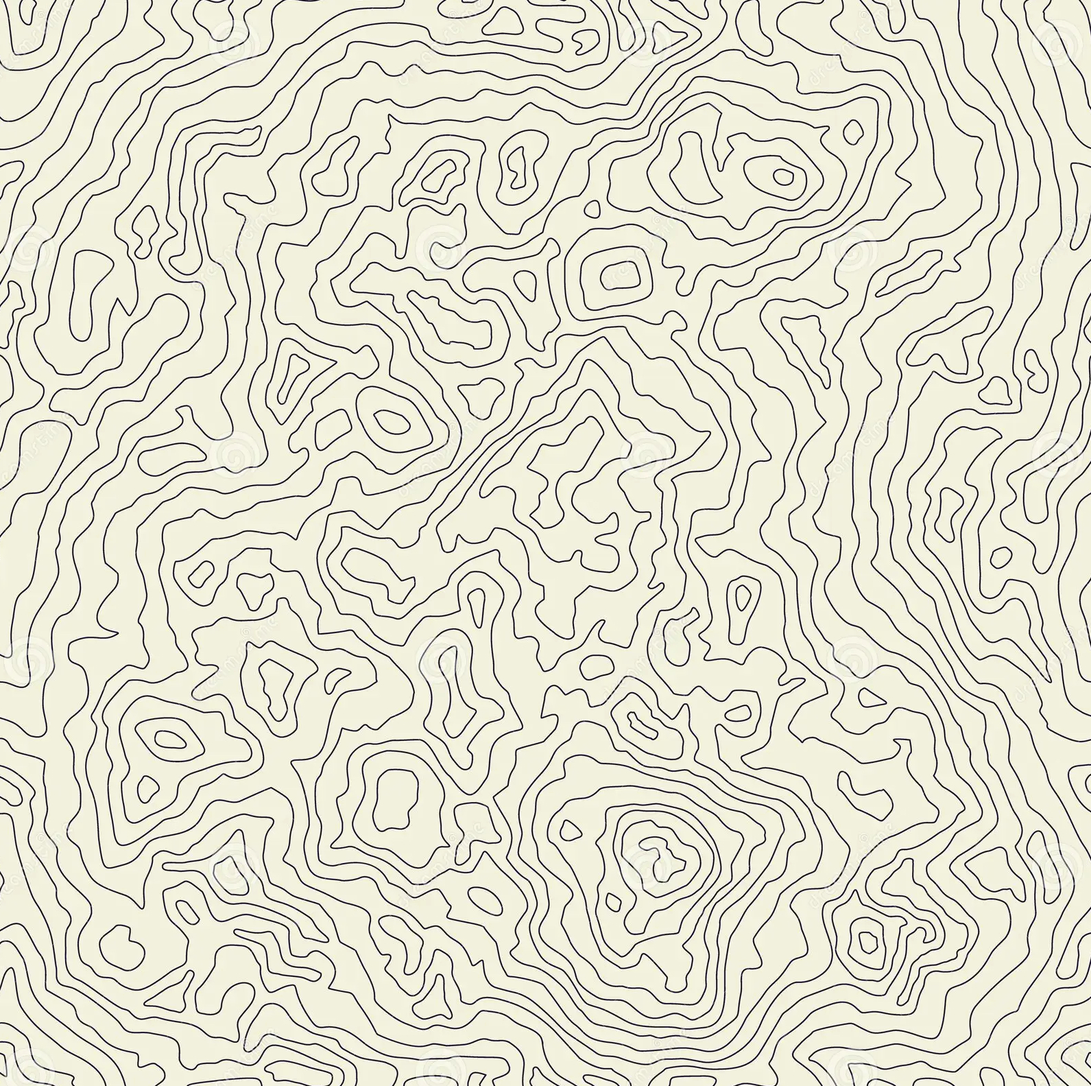
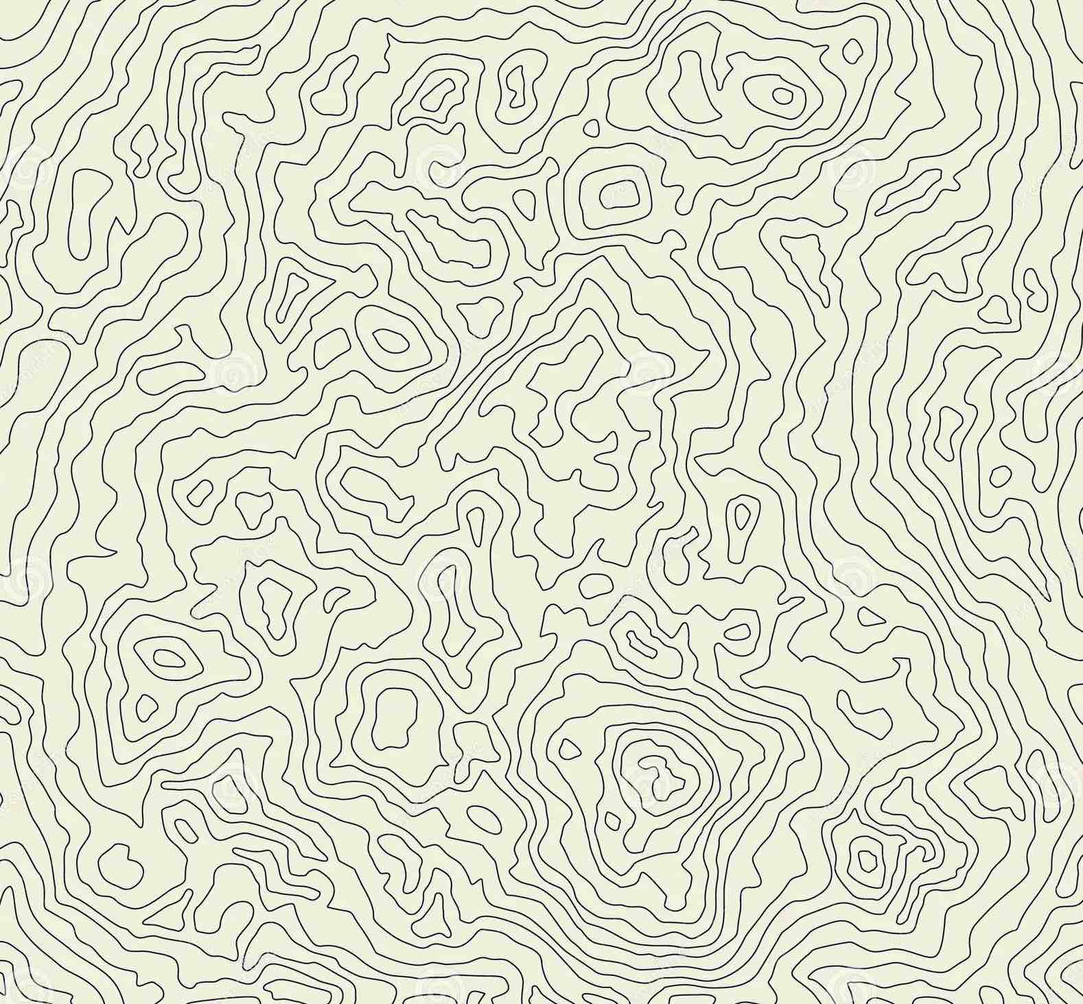
Reduce image quality, remove body padding

Changed region(s): [[0.0, 0.0, 1.0, 1.0]]

diff --git a/app/globals.css b/app/globals.css
@@ -12,11 +12,12 @@ html > * {
 }
 
 body {
-  padding: 5px;
+  padding:0;
 }
 
 .bgWrap {
   position: fixed;
+  top: 0;
   height: 100vh;
   width: 100vw;
   overflow: hidden;
@@ -24,7 +25,7 @@ body {
 }
 
 .bgWrap > img {
-  opacity: 0.1;
+  opacity: .2;
 }
 
 .contentContainer {

diff --git a/app/layout.js b/app/layout.js
@@ -24,6 +24,7 @@ export default function RootLayout({ children }) {
             style={{
               objectFit: "cover",
             }}
+            priority="true"
           />
         </div>
         <Header></Header>
